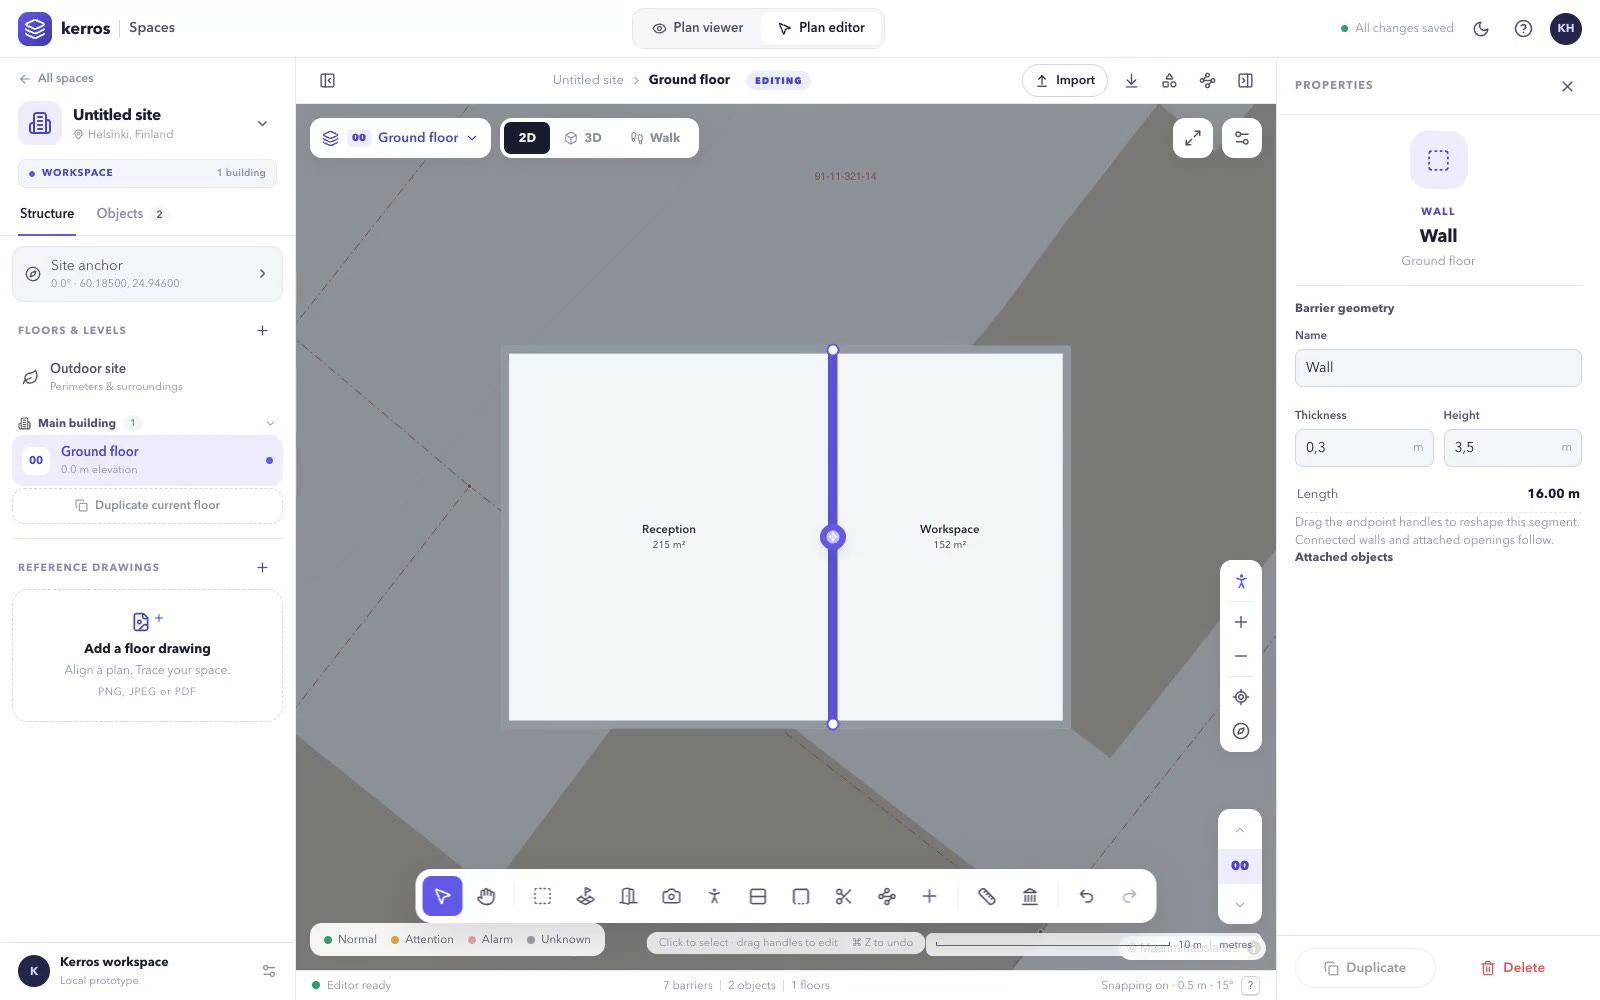
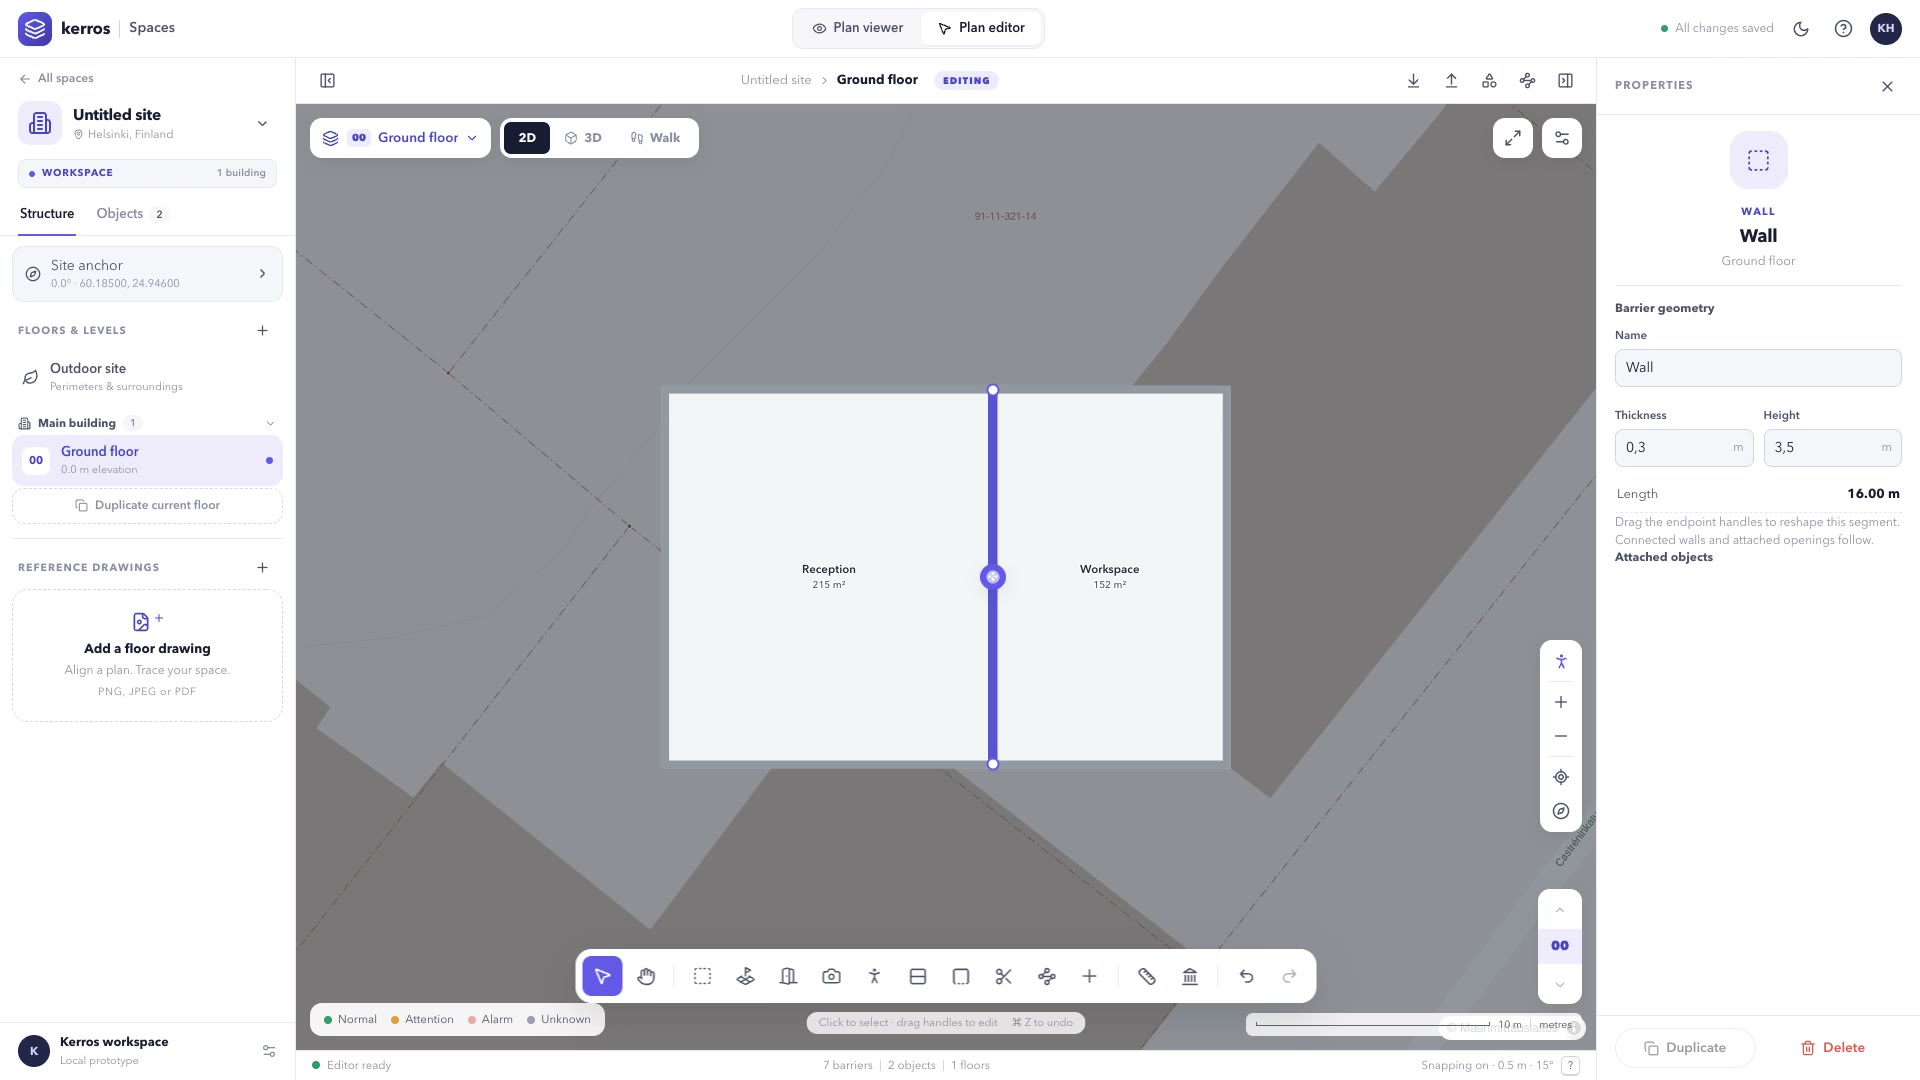
Improve showcase recording quality and keep videos outside Git

diff --git a/website/landing.html b/website/landing.html
@@ -67,7 +67,7 @@
             poster="/media/manual-editor.jpg"
             aria-label="Manual floor-plan building and editing over MML cadastral mapping"
           >
-            <source src="/media/manual-editor.mp4" type="video/mp4">
+            <source data-media-file="manual-editor.mp4" type="video/mp4">
             <track kind="captions" src="./media/manual-editor.vtt" srclang="en" label="Demo annotations" default>
           </video>
           <figcaption><span>MANUAL EDITING</span><span>Real MML mapping · walls · room division</span></figcaption>
@@ -98,7 +98,7 @@
             poster="/media/building-3d.jpg"
             aria-label="3D building rotation, floor switching and elevator operation"
           >
-            <source src="/media/building-3d.mp4" type="video/mp4">
+            <source data-media-file="building-3d.mp4" type="video/mp4">
             <track kind="captions" src="./media/building-3d.vtt" srclang="en" label="Demo annotations" default>
           </video>
           <figcaption>
@@ -133,7 +133,7 @@
             poster="/media/backrooms-route.jpg"
             aria-label="Walking from a Backrooms pool room to the offices using elevator route playback"
           >
-            <source src="/media/backrooms-route.mp4" type="video/mp4">
+            <source data-media-file="backrooms-route.mp4" type="video/mp4">
             <track kind="captions" src="./media/backrooms-route.vtt" srclang="en" label="Demo annotations" default>
           </video>
           <figcaption><span>POV & WAYFINDING</span><span>Pool rooms · elevator · offices</span></figcaption>

diff --git a/website/landing.js b/website/landing.js
@@ -25,6 +25,18 @@ export function mountLanding() {
   };
   theme?.addEventListener('click', toggle);
   const videos = [...root.querySelectorAll('video')];
+  const mediaBase = import.meta.env.VITE_MEDIA_BASE_URL?.trim().replace(/\/+$/, '');
+  for (const video of videos) {
+    const source = video.querySelector('source[data-media-file]');
+    if (mediaBase && source) {
+      source.src = `${mediaBase}/${source.dataset.mediaFile}`;
+      video.load();
+    } else {
+      // Source-only installations still show the posters and links to interactive demos.
+      video.controls = false;
+    }
+  }
+  if (!mediaBase) root.querySelector('.lp-recording-note')?.setAttribute('hidden', '');
   const playing = e => {
     for (const video of videos) if (video !== e.target) video.pause();
   };

diff --git a/website/landing.css b/website/landing.css
@@ -307,7 +307,7 @@ html.dark .landing {
 .lp-film video {
   display: block;
   width: 100%;
-  aspect-ratio: 8 / 5;
+  aspect-ratio: 16 / 9;
   background: var(--lp-tint);
   border-radius: 6px;
   object-fit: contain;

diff --git a/website/README.md b/website/README.md
@@ -1,43 +1,16 @@
-# Homepage and recordings
+# Website
 
-`landing.html`, `landing.css` and `landing.js` are shared by the Vite development index and the published VitePress home (`docs/index.md`). `npm run build:site` assembles the app and documentation into `dist/` for the `/kerros/` deployment path. There is no hero image.
+The homepage introduces floor-plan editing, 3D exploration, indoor navigation, AI import and the
+library modules. It links to the interactive demos, user guide and API reference.
 
-The homepage also introduces live AI import and the five modules, including the Node-only `@kerros/server` extraction and AI backend. Its guide/reference links work through the development app's documentation proxy as well as the published site.
+- `landing.html` contains the shared homepage markup.
+- `landing.css` provides its layout and light/dark themes.
+- `landing.js` handles theme selection and video playback.
+- `main.js` mounts the development homepage; `docs/index.md` mounts the same content in VitePress.
 
-## GitHub Pages
+Video cards use local JPEG posters and WebVTT captions from `docs/public/media/`. The optional
+`VITE_MEDIA_BASE_URL` setting supplies video sources. Without it, cards show their posters and
+links to the interactive demos. Recordings load on demand, include native playback controls and
+pause one another. Internal navigation links use relative paths.
 
-`.github/workflows/pages.yml` builds and publishes `dist/` after pushes to `main`, or through a manual
-**Publish site** workflow run. The documentation base is `/kerros/`; app links and assets use relative
-paths. The deployment includes the homepage, editor, viewer, manual and recorded media.
-
-For a repository administrator, initial setup with GitHub CLI is:
-
-```sh
-gh api --method POST repos/kherrala/kerros/pages -f build_type=workflow
-gh workflow run pages.yml --ref main
-gh run list --workflow pages.yml
-```
-
-If Pages already exists, change its publishing method with `gh api --method PUT repos/kherrala/kerros/pages -f build_type=workflow`.
-The workflow uses the `github-pages` environment and GitHub's deployment token; it needs no personal
-access token or deploy key stored as a repository secret. See GitHub's
-[custom Pages workflow documentation](https://docs.github.com/en/pages/getting-started-with-github-pages/using-custom-workflows-with-github-pages).
-
-Optionally set the repository Actions variable `VITE_MML_API_KEY` for MML vector maps. This value is
-compiled into public JavaScript, so use only the public map credential described in the MML guide.
-GitHub Pages hosts static files; it does not run `@kerros/server`, PDF conversion or Claude imports.
-The Pages build leaves the AI backend URL empty. Use `make up` for the complete local stack.
-
-## Recordings
-
-The three videos live in `docs/public/media/`. Each has an MP4, a JPEG poster and an English WebVTT annotation track. The clips are encoded at 1280 × 800, 20 fps with a 600 kbit/s ceiling. They load on demand, have native playback controls, and pause one another. Recordings are silent; the interactive demo includes music and ambience. The Backrooms clip starts beside a pool in the deep baths after the POV scene has warmed up, follows an elevator route to the yellow offices, then visits the other bath level.
-
-To refresh recordings, install Chromium for Playwright, provide the MML public map credential in `.env.local`, and have `ffmpeg` on PATH. Run:
-
-```sh
-npm run capture:media -- manual
-npm run capture:media -- building
-npm run capture:media -- backrooms
-```
-
-Omit the target to record all three. The script starts its own local server, records real browser interactions, trims setup between scenes, and writes caption timing alongside the encoded clips. Manual editing requires actual MML cadastral features; it does not substitute map fixtures. Failure screenshots and chapter diagnostics are retained in the printed temporary directory. Keep app source unchanged while recording to avoid hot reloads in the video.
+`npm run build:site` assembles the homepage, applications and documentation in `dist/`.
